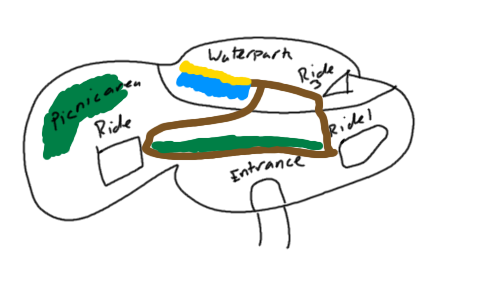
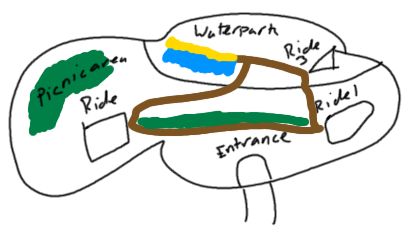
Updated image sizes

diff --git a/new/rides.html b/new/rides.html
@@ -128,9 +128,9 @@
         <p>A fun water ride located in the right of the waterpark.<br> You must be at least 3 foot tall to go on this ride.</p>
     </div>
 
-    <div class="col-xs-12 col-sm-12 col-md-12 col-lg-12 col-xl-6 padding">
+    <div class="col-xs-8 col-sm-8 col-md-8 col-lg-5 col-xl-3 padding">
         <h3>Map of the Park</h3>
-        <img src="images/sandersmap.png">       
+        <img id="scaleimg" src="images/sandersmap.png">       
     </div>
 
 

diff --git a/new/waterpark.html b/new/waterpark.html
@@ -98,7 +98,7 @@
 <div class="container-fluid padding">
 <div class="row padding align-items-center">
     <div class="col-md-12 col-lg-10">
-        <img id="waterparkimg" src="images/waterparkmap.png">
+        <img id="scaleimg" src="images/waterparkmap.png">
     </div>
     <div class="col-md-3 col-lg-2">
         <h3>Waterpark opening hours</h3>

diff --git a/new/style.css b/new/style.css
@@ -86,7 +86,7 @@ nav .navbar-nav li a {
     border: 0px;
 }
 
-#waterparkimg {
+#scaleimg {
     width: 100%;
 }
 
